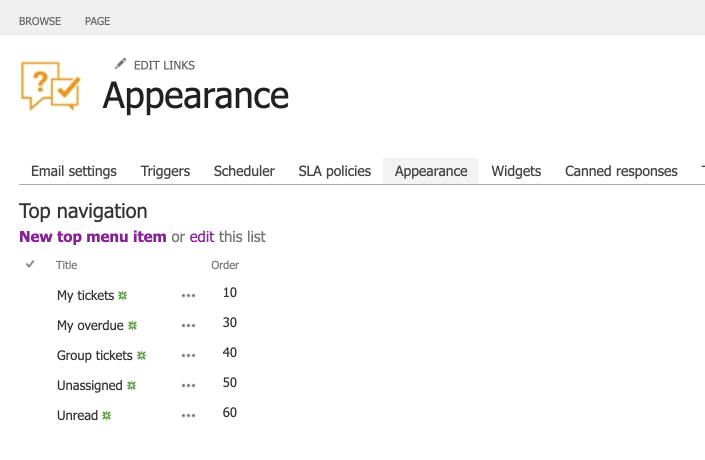
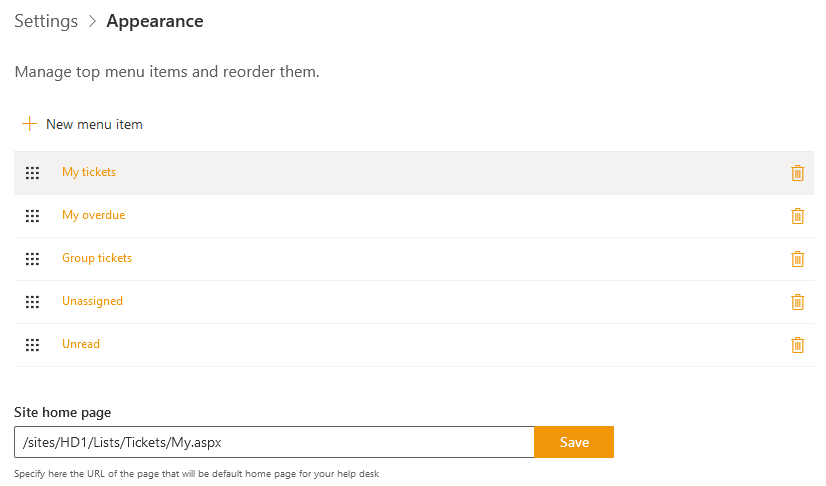
updated Appearance page

diff --git a/Online/Configuration Guide/Appearance.rst b/Online/Configuration Guide/Appearance.rst
@@ -9,7 +9,7 @@ as well as customize HelpDesk navigation.
 
 Navigate to **Settings** tab using the left navbar:
 
-Then click on the **Appearance** tab. Now you can see the quick launch
+Then click on the **Appearance** button. Now you can see the quick launch
 display setting and a list of HelpDesk navigation elements.
 
 |navigationsets|
@@ -17,18 +17,19 @@ display setting and a list of HelpDesk navigation elements.
 Top menu customization 
 ~~~~~~~~~~~~~~~~~~~~~~
 
-HelpDesk top menu is a set of buttons  with different ticket views. You can customize them by adding a new button with a view or URL to external site. You can change existing buttons as well.
+HelpDesk top menu is a set of links  with different ticket views. You can customize them by adding a new button with a view or URL to external site. You can drag the existing links to chnage their order as well.
 
 To add a new item to top navigation, click “New top menu item”.
 
 |NewTopMenu|
 
-You will see a dialog window where you need provide a title for a new item and select ticket view. If you choose a link instead of view, please provide aan URL.
+You will see a dialog window where you need provide a title for a new item and select ticket view. If you choose a link instead of view, please provide an URL.
 
 |NewItem|
 
-In Order field, provide an index number which the new item will take place in the line of existing elements. 
-Don’t forget to save a new item.
+Don’t forget to save a new item. After adding this new element you can drga it to change the links' order 
+
+|NewItemOrder|
 
 If you have troubles with deleting the item, open your browser's console and type localStorage.clear() there. Then renew the page.
 
@@ -45,3 +46,5 @@ If you have troubles with deleting the item, open your browser's console and typ
    :alt: New top menu item
 .. |NewItem| image:: ../_static/img/new-top-menu-item-1.png
    :alt: Creation of the new item
+.. |NewItemOrder| image:: ../_static/img/new-top-menu-item-order.gif
+   :alt: Change the items order
